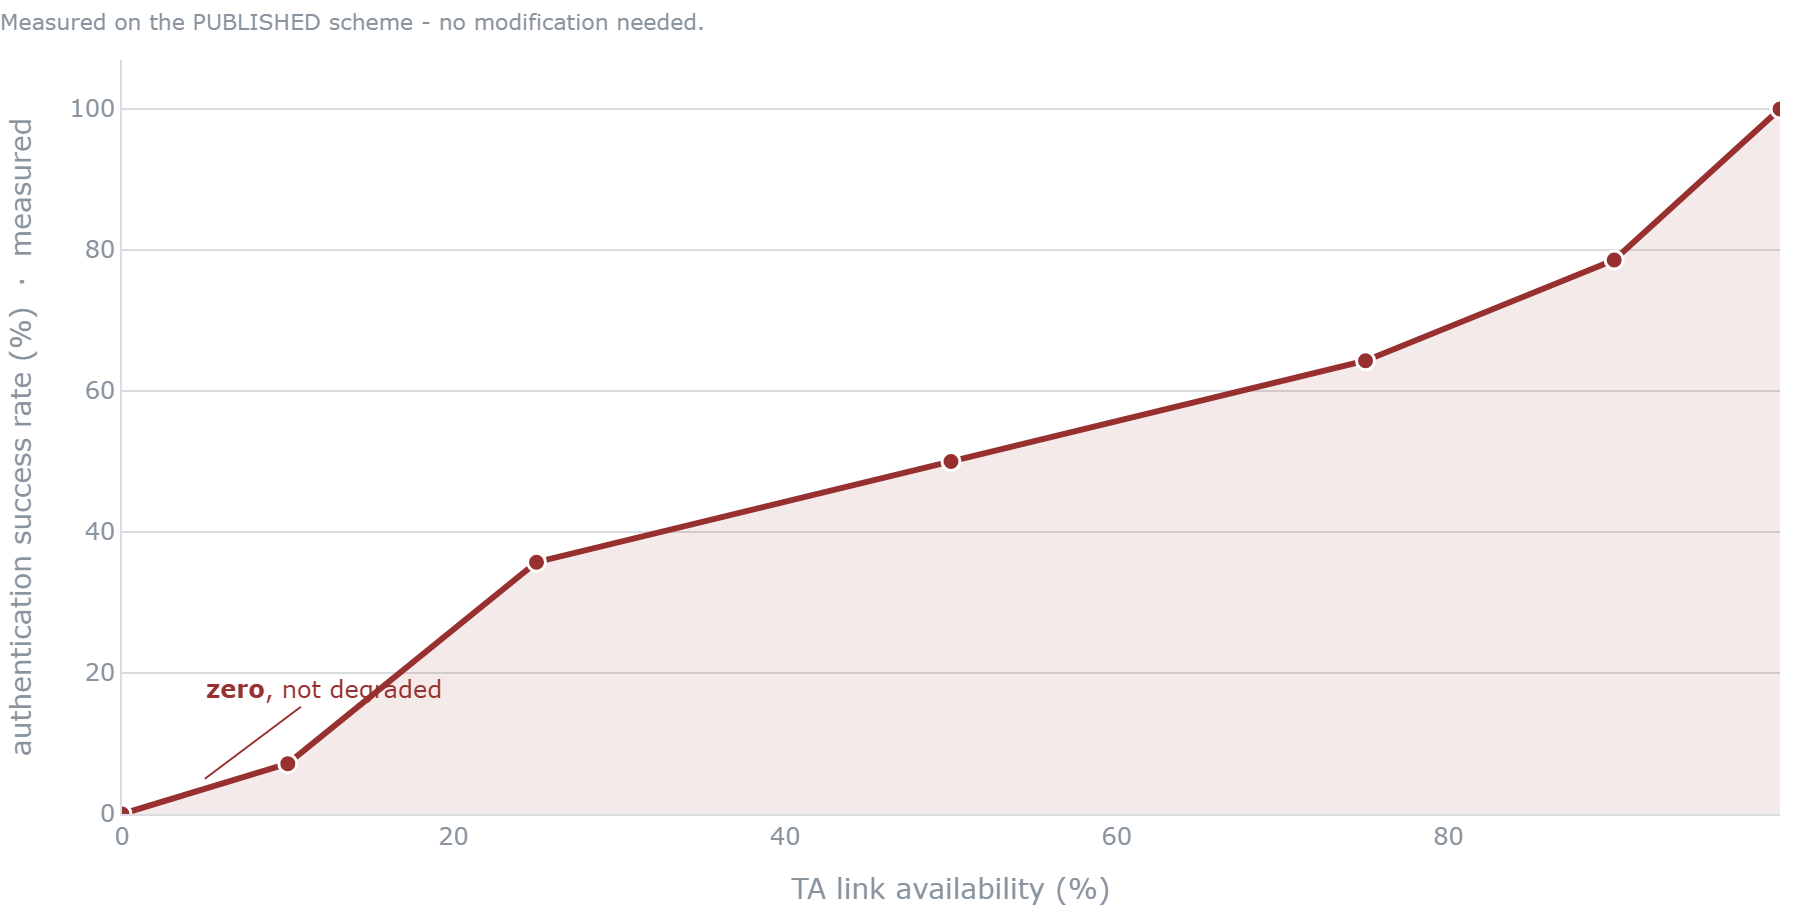
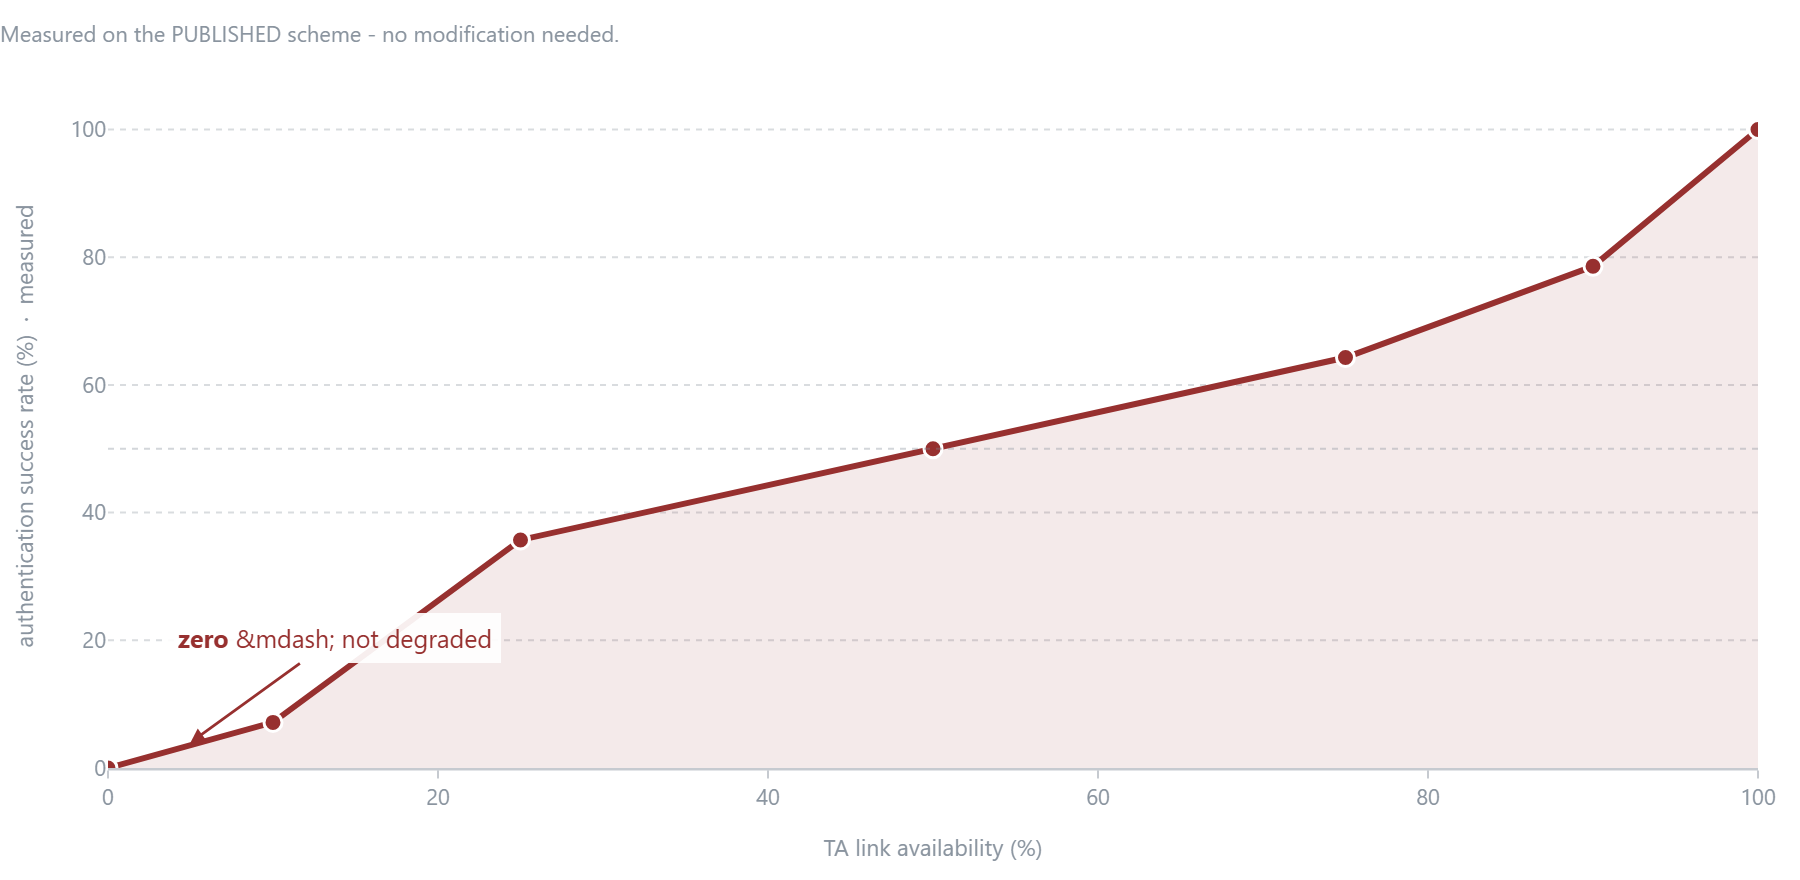
Polish the dashboard UI to match the new topology diagram
Status cards now carry state rather than eight identical grey boxes: the RSU
reads red, the TUAV green while online, and the TA link shifts amber then red
as availability falls. Each card gains a one-line note ("on the critical path",
"stale keys") so the header explains itself.

Adds a colour-token design system, a masthead carrying the paper citation, and
consistent callout styling. Tabs highlight in amber when active.

Charts: dotted grid, cleaner axis treatment, direct end-of-line labels so the
legend is a backup rather than a lookup, and a shaded danger region on the
goodput chart.

Two plotting bugs fixed, both mine, both on the logarithmic cost chart:

  * area fills were set to "fill to zero", which on a log axis means fill to
    negative infinity. Plotly expanded the range to 10^184 and collapsed every
    series into one flat line. Fills removed and the range pinned to the data.

  * annotation y-positions were passed as linear values. Plotly places
    annotations on a log axis by log10 of the value, so "200 ms" was being
    drawn at 10^200, off the chart, and the one label that did appear sat in
    the wrong place. Now converted with math.log10.

71 tests still pass.

diff --git a/uav_iov_simulator/app.py b/uav_iov_simulator/app.py
@@ -41,21 +41,89 @@ st.set_page_config(
 # ---------------------------------------------------------------- styling --
 st.markdown("""
 <style>
-  .block-container { padding-top: 2.2rem; max-width: 1400px; }
-  .stat-strip { display:flex; flex-wrap:wrap; gap:1px; background:#D5DBE2;
-                border:1px solid #D5DBE2; margin-bottom:14px; }
-  .stat-strip > div { background:#fff; padding:9px 16px; flex:1; min-width:120px; }
-  .stat-strip .l { font-size:9.5px; letter-spacing:.09em; text-transform:uppercase;
-                   color:#8A949F; font-weight:600; }
-  .stat-strip .v { font-size:15px; font-weight:700; color:#131820; }
-  .fid-faithful { background:#E3F0E9; color:#1C6B45; border:1px solid #1C6B45; }
-  .fid-abstract { background:#FBF1E4; color:#A8580A; border:1px solid #A8580A; }
-  .fid { display:inline-block; padding:3px 9px; font-size:10px; font-weight:700;
-         letter-spacing:.06em; border-radius:2px; }
-  .paper-note { border-left:3px solid #A8580A; background:#FBF1E4;
-                padding:10px 14px; font-size:13.5px; margin:8px 0; }
-  .alarm-note { border-left:3px solid #97302F; background:#FAEBEA;
-                padding:10px 14px; font-size:13.5px; margin:8px 0; }
+  :root {
+    --ink:#131820; --ink2:#55606D; --ink3:#8A949F;
+    --rule:#DCE2E8; --panel:#F4F6F9;
+    --amber:#A8580A; --amber-bg:#FCF3E7; --amber-line:#E0B77E;
+    --teal:#145D66;  --teal-bg:#E6F1F2;  --teal-line:#8FBFC4;
+    --green:#1C6B45; --green-bg:#E7F2EC; --green-line:#8CC0A4;
+    --red:#97302F;   --red-bg:#FBECEA;   --red-line:#DFA8A3;
+    --blue:#2A6DB0;  --blue-bg:#E9F1F9;
+  }
+
+  .block-container { padding-top: 2.0rem; max-width: 1480px; }
+
+  /* ---------------- masthead ---------------- */
+  .mast { display:flex; align-items:flex-start; gap:14px;
+          border-bottom:2px solid var(--ink); padding-bottom:12px;
+          margin-bottom:6px; }
+  .mast .badge { flex:none; width:46px; height:46px; border-radius:3px;
+          background:var(--amber); color:#fff; display:flex;
+          align-items:center; justify-content:center;
+          font-size:19px; font-weight:800; letter-spacing:-.04em; }
+  .mast h1 { margin:0; font-size:27px; font-weight:800; letter-spacing:-.02em;
+          line-height:1.15; color:var(--ink); }
+  .mast .sub { font-size:12.5px; color:var(--ink3); margin-top:3px;
+          line-height:1.45; }
+
+  /* ---------------- status cards ---------------- */
+  .cards { display:grid; grid-template-columns:repeat(auto-fit,minmax(138px,1fr));
+           gap:8px; margin:14px 0 4px; }
+  .card { background:#fff; border:1px solid var(--rule); border-radius:3px;
+          padding:9px 12px 10px; position:relative; overflow:hidden; }
+  .card:before { content:""; position:absolute; left:0; top:0; bottom:0;
+          width:3px; background:var(--ink3); }
+  .card .l { font-size:9px; letter-spacing:.1em; text-transform:uppercase;
+          color:var(--ink3); font-weight:700; }
+  .card .v { font-size:17px; font-weight:800; color:var(--ink);
+          letter-spacing:-.01em; line-height:1.25; margin-top:1px; }
+  .card .n { font-size:10.5px; color:var(--ink3); margin-top:1px; }
+  .card.good:before { background:var(--green); }
+  .card.good  .v { color:var(--green); }
+  .card.warn:before { background:var(--amber); }
+  .card.warn  .v { color:var(--amber); }
+  .card.bad:before  { background:var(--red); }
+  .card.bad   .v { color:var(--red); }
+
+  /* ---------------- callouts ---------------- */
+  .note { border-left:3px solid var(--amber); background:var(--amber-bg);
+          padding:11px 15px; font-size:13.5px; margin:9px 0;
+          border-radius:0 3px 3px 0; line-height:1.55; }
+  .paper-note { border-left:3px solid var(--amber); background:var(--amber-bg);
+          padding:11px 15px; font-size:13.5px; margin:9px 0;
+          border-radius:0 3px 3px 0; line-height:1.55; }
+  .alarm-note { border-left:3px solid var(--red); background:var(--red-bg);
+          padding:11px 15px; font-size:13.5px; margin:9px 0;
+          border-radius:0 3px 3px 0; line-height:1.55; }
+  .good-note  { border-left:3px solid var(--green); background:var(--green-bg);
+          padding:11px 15px; font-size:13.5px; margin:9px 0;
+          border-radius:0 3px 3px 0; line-height:1.55; }
+
+  /* ---------------- fidelity chips ---------------- */
+  .fid { display:inline-block; padding:3px 10px; font-size:10px; font-weight:800;
+         letter-spacing:.08em; border-radius:2px; }
+  .fid-faithful { background:var(--green-bg); color:var(--green);
+                  border:1px solid var(--green-line); }
+  .fid-abstract { background:var(--amber-bg); color:var(--amber);
+                  border:1px solid var(--amber-line); }
+
+  /* ---------------- section headings ---------------- */
+  .sec { font-size:11px; font-weight:800; letter-spacing:.1em;
+         text-transform:uppercase; color:var(--ink3);
+         border-bottom:1px solid var(--rule); padding-bottom:5px;
+         margin:16px 0 9px; }
+
+  /* ---------------- tabs ---------------- */
+  .stTabs [data-baseweb="tab-list"] { gap:2px; border-bottom:1px solid var(--rule); }
+  .stTabs [data-baseweb="tab"] { height:38px; padding:0 13px; font-size:13.5px;
+         font-weight:600; color:var(--ink2); border-radius:3px 3px 0 0; }
+  .stTabs [aria-selected="true"] { color:var(--amber) !important;
+         background:var(--amber-bg); }
+
+  /* ---------------- misc ---------------- */
+  div[data-testid="stMetricValue"] { font-size:24px; font-weight:800; }
+  div[data-testid="stMetricLabel"] { font-size:11px; letter-spacing:.04em; }
+  section[data-testid="stSidebar"] { border-right:1px solid var(--rule); }
 </style>
 """, unsafe_allow_html=True)
 
@@ -207,19 +275,29 @@ if any([do_register, do_session, do_auth, do_key, do_add, do_remove, do_update])
 
 
 # ----------------------------------------------------------------- header --
-st.markdown("## Infrastructure-Less IoV — Authenticated Key Management")
-st.caption(
-    f"Simulating: {config.PAPER['authors']}, *{config.PAPER['title']}*, "
-    f"{config.PAPER['venue']}, {config.PAPER['year']}.  "
-    f"{config.DISCLAIMER_SHORT}"
-)
+st.markdown(f"""
+<div class="mast">
+  <div class="badge">TU</div>
+  <div>
+    <h1>Infrastructure-Less IoV &mdash; Authenticated Key Management</h1>
+    <div class="sub">
+      Simulating {config.PAPER['authors']},
+      <i>{config.PAPER['title']}</i>,
+      {config.PAPER['venue']}, {config.PAPER['year']}.<br>
+      {config.DISCLAIMER_SHORT}
+    </div>
+  </div>
+</div>
+""", unsafe_allow_html=True)
 
-banner = sim.status_banner()
-cells = "".join(
-    f'<div><div class="l">{k}</div><div class="v">{v}</div></div>'
-    for k, v in banner.items()
+cards = "".join(
+    f'<div class="card {c["tone"]}">'
+    f'<div class="l">{c["label"]}</div>'
+    f'<div class="v">{c["value"]}</div>'
+    f'<div class="n">{c["note"]}</div></div>'
+    for c in sim.status_banner()
 )
-st.markdown(f'<div class="stat-strip">{cells}</div>', unsafe_allow_html=True)
+st.markdown(f'<div class="cards">{cards}</div>', unsafe_allow_html=True)
 
 
 # ------------------------------------------------------ presentation mode --
@@ -854,11 +932,10 @@ with tab_vs:
 
 # ---------------------------------------------------------------- Results --
 with tab_results:
-    st.markdown("#### System status")
-    b = sim.status_banner()
+    st.markdown('<div class="sec">System status</div>', unsafe_allow_html=True)
     cols = st.columns(4)
-    for i, (k, v) in enumerate(b.items()):
-        cols[i % 4].metric(k, v)
+    for i, c in enumerate(sim.status_banner()):
+        cols[i % 4].metric(c["label"], c["value"], help=c["note"] or None)
 
     st.divider()
     r1, r2 = st.columns(2, gap="large")

diff --git a/uav_iov_simulator/visualization/performance.py b/uav_iov_simulator/visualization/performance.py
@@ -15,6 +15,8 @@ shape: linear in n, and the relative ordering of the slopes.
 
 from __future__ import annotations
 
+import math
+
 import pandas as pd
 import plotly.graph_objects as go
 
@@ -50,19 +52,29 @@ def _base(fig: go.Figure, *, height: int = 430, ytitle: str = "",
           xtitle: str = "", logy: bool = False) -> go.Figure:
     fig.update_layout(
         height=height,
-        margin=dict(l=10, r=10, t=30, b=10),
+        margin=dict(l=14, r=14, t=42, b=14),
         # Transparent so the chart sits correctly in light OR dark theme.
         plot_bgcolor="rgba(0,0,0,0)", paper_bgcolor="rgba(0,0,0,0)",
-        font=dict(color=INK3, size=12),
-        legend=dict(orientation="h", yanchor="bottom", y=1.02,
-                    xanchor="left", x=0, font=dict(size=11)),
+        font=dict(color=INK2, size=12,
+                  family="Segoe UI, Helvetica Neue, Arial, sans-serif"),
+        legend=dict(orientation="h", yanchor="bottom", y=1.04,
+                    xanchor="left", x=0, font=dict(size=11.5),
+                    bgcolor="rgba(0,0,0,0)"),
         hovermode="x unified",
+        hoverlabel=dict(bgcolor="white", bordercolor=RULE,
+                        font=dict(size=12, color=INK)),
     )
-    fig.update_xaxes(title=xtitle, showgrid=False, zeroline=False,
-                     linecolor=RULE, tickcolor=RULE, color=INK3)
-    fig.update_yaxes(title=ytitle, gridcolor=RULE, zeroline=False,
-                     linecolor=RULE, tickcolor=RULE, color=INK3,
-                     type="log" if logy else "linear")
+    fig.update_xaxes(
+        title=dict(text=xtitle, font=dict(size=11.5, color=INK3)),
+        showgrid=False, zeroline=False, showline=True,
+        linecolor="rgba(128,138,150,0.45)", linewidth=1.2,
+        ticks="outside", ticklen=4, tickcolor="rgba(128,138,150,0.45)",
+        color=INK3, tickfont=dict(size=11))
+    fig.update_yaxes(
+        title=dict(text=ytitle, font=dict(size=11.5, color=INK3)),
+        gridcolor=RULE, griddash="dot", zeroline=False, showline=False,
+        color=INK3, tickfont=dict(size=11),
+        type="log" if logy else "linear")
     return fig
 
 
@@ -91,26 +103,54 @@ def chart_where_the_work_happens(measured: pd.DataFrame) -> go.Figure:
     ))
 
     # --- what we measured, SOLID --------------------------------------
+    # NOTE: no area fills on this chart. The y axis is logarithmic, where
+    # "fill to zero" means fill to negative infinity - Plotly then expands the
+    # range to absurd values and every series collapses onto one line.
     wanted = [
-        ("GA (TUAV side)", "Ours: TUAV side", ACTOR_COLOUR["tuav"], 3),
         ("GA (TA side)", "Ours: TA side (paper reports none)",
-         ACTOR_COLOUR["ta"], 3),
-        ("GA (link)", "Ours: TA link", ACTOR_COLOUR["link"], 2),
+         ACTOR_COLOUR["ta"], 3.4),
+        ("GA (link)", "Ours: TA link", ACTOR_COLOUR["link"], 2.2),
+        ("GA (TUAV side)", "Ours: TUAV side", ACTOR_COLOUR["tuav"], 3.4),
     ]
+    seen: list[float] = []
     for phase, label, colour, width in wanted:
         sub = measured[measured["phase"] == phase].sort_values("n")
         if sub.empty:
             continue
+        seen.extend(v for v in sub["ms"] if v > 0)
         fig.add_trace(go.Scatter(
             x=sub["n"], y=sub["ms"], name=label, mode="lines+markers",
             line=dict(color=colour, width=width),
-            marker=dict(size=7, line=dict(color="white", width=1.5)),
-            hovertemplate=label + ": %{y:.2f} ms<extra></extra>",
+            marker=dict(size=8, line=dict(color="white", width=1.8)),
+            hovertemplate=label + ": %{y:.3g} ms<extra></extra>",
         ))
+        # Direct label at the right end, so the legend is a backup not a lookup.
+        #
+        # On a LOG axis Plotly positions annotations by the log10 of the value,
+        # not the value itself. Passing the raw number puts "200 ms" at 10^200,
+        # i.e. off the chart entirely.
+        last = sub.iloc[-1]
+        val = float(last["ms"])
+        if val <= 0:
+            continue
+        txt = f"{val:,.0f}" if val >= 10 else f"{val:.2g}"
+        fig.add_annotation(
+            x=last["n"], y=math.log10(val), xanchor="left", xshift=9,
+            showarrow=False, text=f"<b>{txt} ms</b>",
+            font=dict(size=10.5, color=colour))
 
-    return _base(fig, height=470, logy=True,
-                 xtitle="number of UAVs authenticated together (n)",
-                 ytitle="milliseconds (log scale)")
+    f = _base(fig, height=470, logy=True,
+              xtitle="number of UAVs authenticated together (n)",
+              ytitle="milliseconds (log scale)")
+    # Pin the log range to the data. Left to itself a log axis with very small
+    # values produces decades of empty space.
+    if seen:
+        lo = math.floor(math.log10(min(seen))) - 0.15
+        hi = math.ceil(math.log10(max(seen))) + 0.35
+        f.update_yaxes(range=[lo, hi])
+    # Room for the end-of-line labels, which are otherwise clipped.
+    f.update_layout(margin=dict(l=14, r=86, t=42, b=14))
+    return f
 
 
 # ---------------------------------------------------------------------------
@@ -162,9 +202,12 @@ def chart_availability_cliff(df: pd.DataFrame) -> go.Figure:
         hovertemplate="%{x:.0f}% link → %{y:.0f}% success<extra></extra>",
     ))
     fig.add_annotation(
-        x=5, y=5, text="<b>zero</b>, not degraded", showarrow=True,
-        arrowhead=0, ax=60, ay=-45, font=dict(size=12, color=RED),
-        arrowcolor=RED)
+        x=5, y=4, text="<b>zero</b> &mdash; not degraded", showarrow=True,
+        arrowhead=2, ax=72, ay=-52, font=dict(size=12.5, color=RED),
+        arrowcolor=RED, arrowwidth=1.4,
+        bgcolor="rgba(255,255,255,0.92)", borderpad=4)
+    fig.add_hline(y=50, line=dict(color="rgba(128,138,150,0.35)", width=1,
+                                  dash="dot"))
 
     fig.update_layout(title=dict(
         text="Measured on the PUBLISHED scheme - no modification needed.",
@@ -195,10 +238,13 @@ def chart_goodput(df: pd.DataFrame) -> go.Figure:
             hovertemplate=mode + ": %{y:.0f}%<extra></extra>",
         ))
 
+    fig.add_vrect(x0=0, x1=5, fillcolor="rgba(151,48,47,0.06)",
+                  line_width=0, layer="below")
     fig.add_annotation(
-        x=5, y=8, text="one forged packet in twenty<br>denies the whole swarm",
-        showarrow=True, arrowhead=0, ax=80, ay=-50,
-        font=dict(size=11, color=RED), arrowcolor=RED, align="left")
+        x=5.4, y=10, text="one forged packet in twenty<br>denies the whole swarm",
+        showarrow=True, arrowhead=2, ax=96, ay=-54, arrowwidth=1.4,
+        font=dict(size=11.5, color=RED), arrowcolor=RED, align="left",
+        bgcolor="rgba(255,255,255,0.92)", borderpad=4)
 
     fig.update_layout(title=dict(
         text="The fallback is NOT part of the published scheme - "

diff --git a/uav_iov_simulator/state.py b/uav_iov_simulator/state.py
@@ -121,23 +121,54 @@ class SystemState:
     def active(self) -> list[UAV]:
         return [u for u in self.uavs if u.status != Status.REVOKED]
 
-    def status_banner(self) -> dict:
-        return {
-            "RSU": "OFFLINE",
-            "TUAV": "ONLINE" if (self.tuav and self.tuav.online) else "OFFLINE",
-            "TA link": (
-                f"{self.link.availability:.0%} avail / {self.link.rtt_ms:.0f} ms"
-                if self.link else "-"
-            ),
-            "UAVs": len(self.uavs),
-            "Authenticated": len(self.authenticated),
-            "Revoked": len(self.revoked),
-            "Group key": (
-                f"ACTIVE (epoch {self.tuav.key_epoch})"
-                if self.tuav and self.tuav.group_key else "none"
-            ),
-            "Backend": self.backend.FIDELITY if self.backend else "-",
-        }
+    def status_banner(self) -> list[dict]:
+        """Status cards for the header.
+
+        Each carries a `tone` so the UI can colour-code state rather than
+        printing eight identical grey boxes: 'bad' is red, 'good' green,
+        'warn' amber, 'info' neutral.
+        """
+        link_tone, link_val = "info", "-"
+        if self.link is not None:
+            if self.link.availability <= 0:
+                link_tone, link_val = "bad", "DOWN"
+            elif self.link.availability < 1.0:
+                link_tone = "warn"
+                link_val = f"{self.link.availability:.0%} · {self.link.rtt_ms:.0f} ms"
+            else:
+                link_tone = "good"
+                link_val = f"{self.link.availability:.0%} · {self.link.rtt_ms:.0f} ms"
+
+        keyed = bool(self.tuav and self.tuav.group_key)
+        n_auth = len(self.authenticated)
+
+        return [
+            {"label": "RSU", "value": "DESTROYED", "tone": "bad",
+             "note": "the premise"},
+            {"label": "TUAV", "value": "ONLINE" if (self.tuav and self.tuav.online)
+                               else "OFFLINE",
+             "tone": "good" if (self.tuav and self.tuav.online) else "bad",
+             "note": "flying base station"},
+            {"label": "TA link", "value": link_val, "tone": link_tone,
+             "note": "on the critical path"},
+            {"label": "UAVs", "value": str(len(self.uavs)), "tone": "info",
+             "note": "registered"},
+            {"label": "Authenticated", "value": str(n_auth),
+             "tone": "good" if n_auth else "info",
+             "note": f"of {len(self.uavs)}" if self.uavs else ""},
+            {"label": "Revoked", "value": str(len(self.revoked)),
+             "tone": "warn" if self.revoked else "info",
+             "note": "stale keys"},
+            {"label": "Group key",
+             "value": f"EPOCH {self.tuav.key_epoch}" if keyed else "none",
+             "tone": "good" if keyed else "info",
+             "note": f"{len(self.keyed)} holders" if keyed else "not distributed"},
+            {"label": "Backend",
+             "value": self.backend.FIDELITY if self.backend else "-",
+             "tone": "good" if (self.backend
+                                and self.backend.FIDELITY == "FAITHFUL") else "warn",
+             "note": self.backend.NAME if self.backend else ""},
+        ]
 
     def uav_table(self) -> list[dict]:
         """The ONLY projection the UI may render. Secrets never appear here."""
